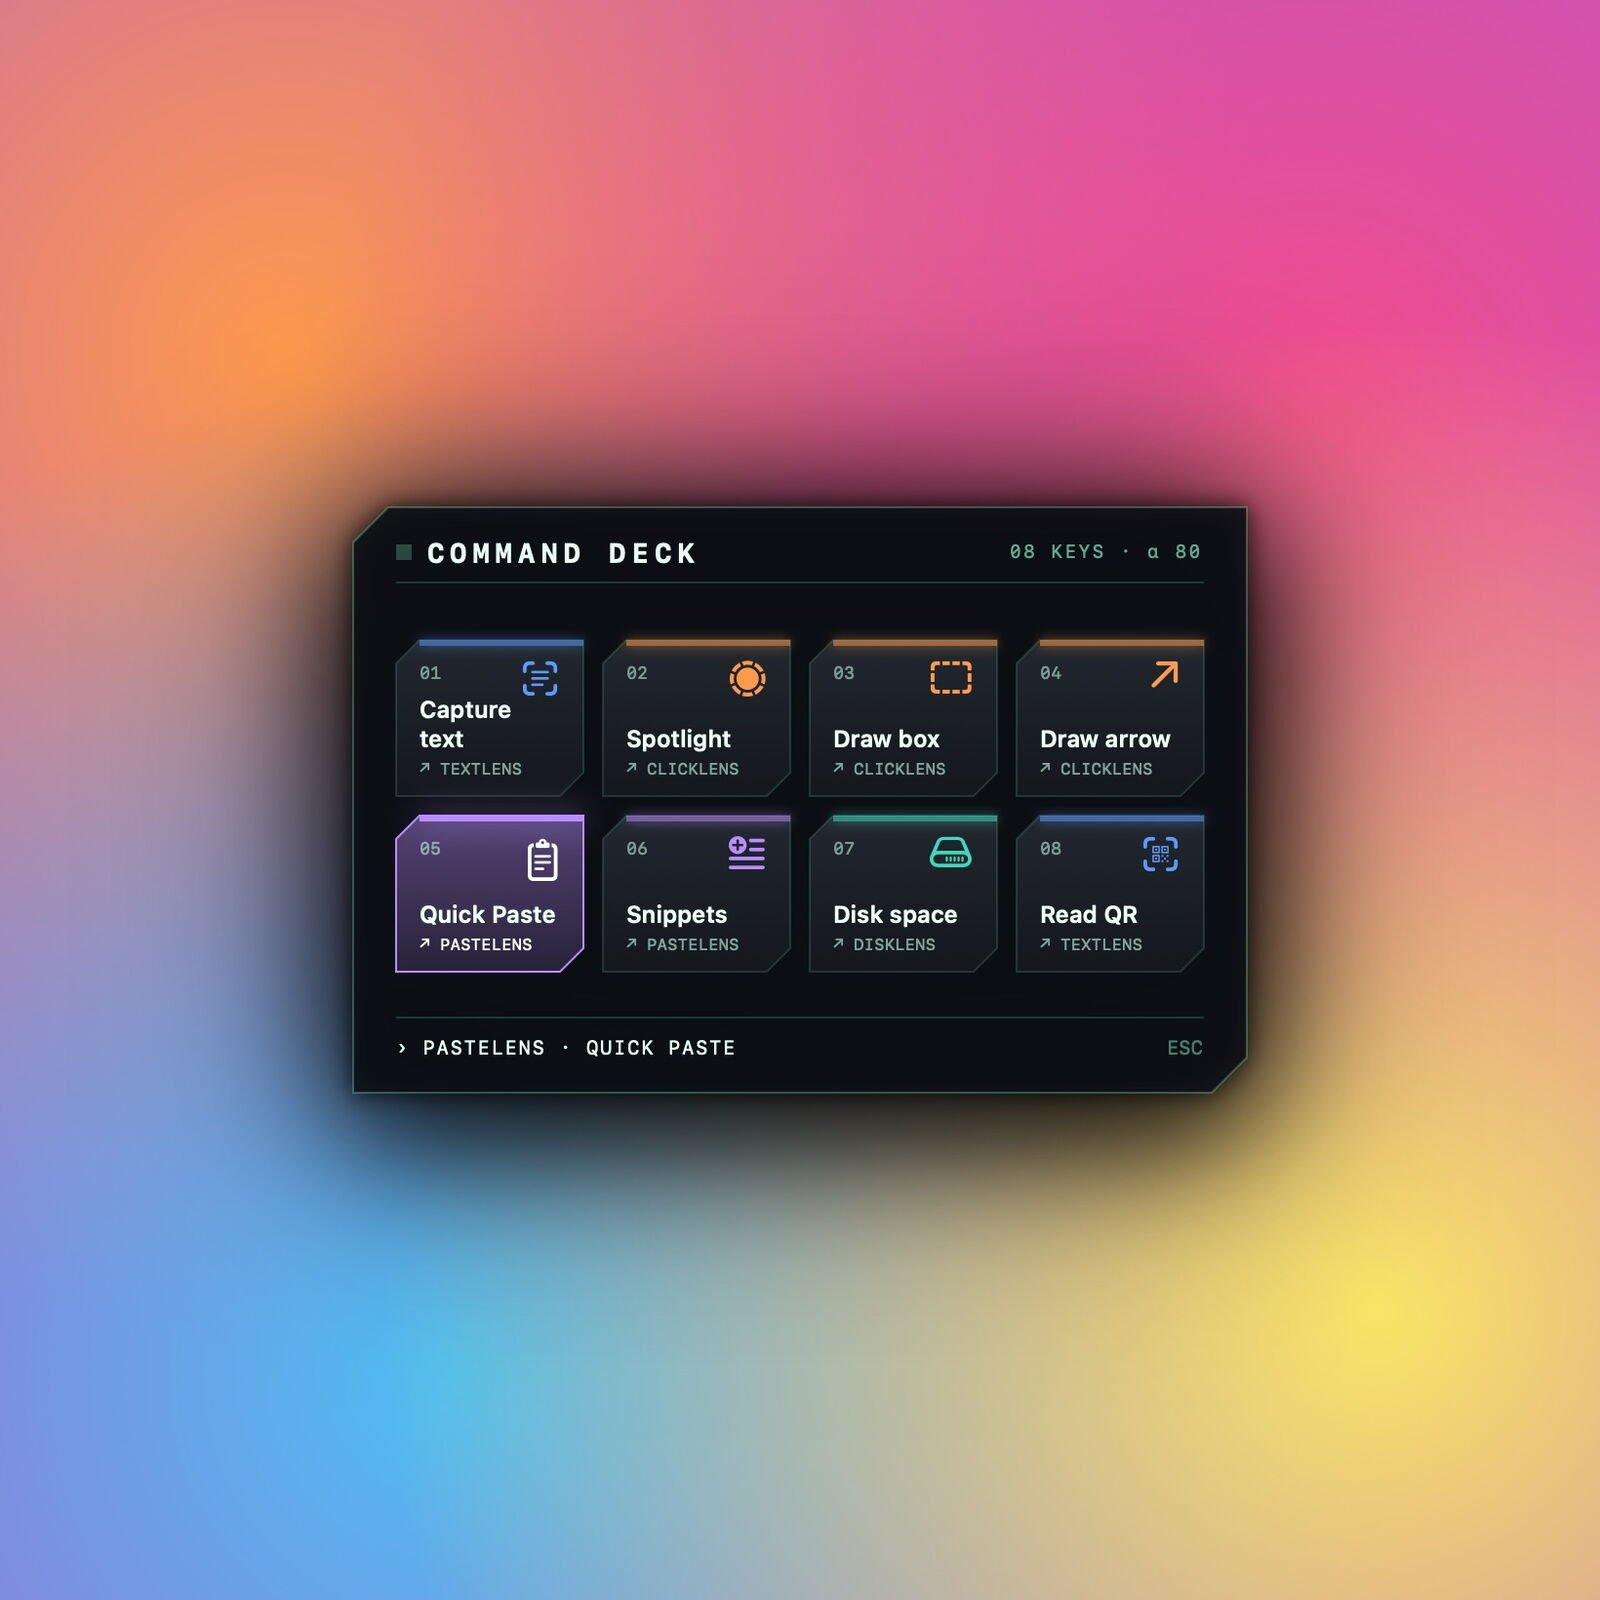
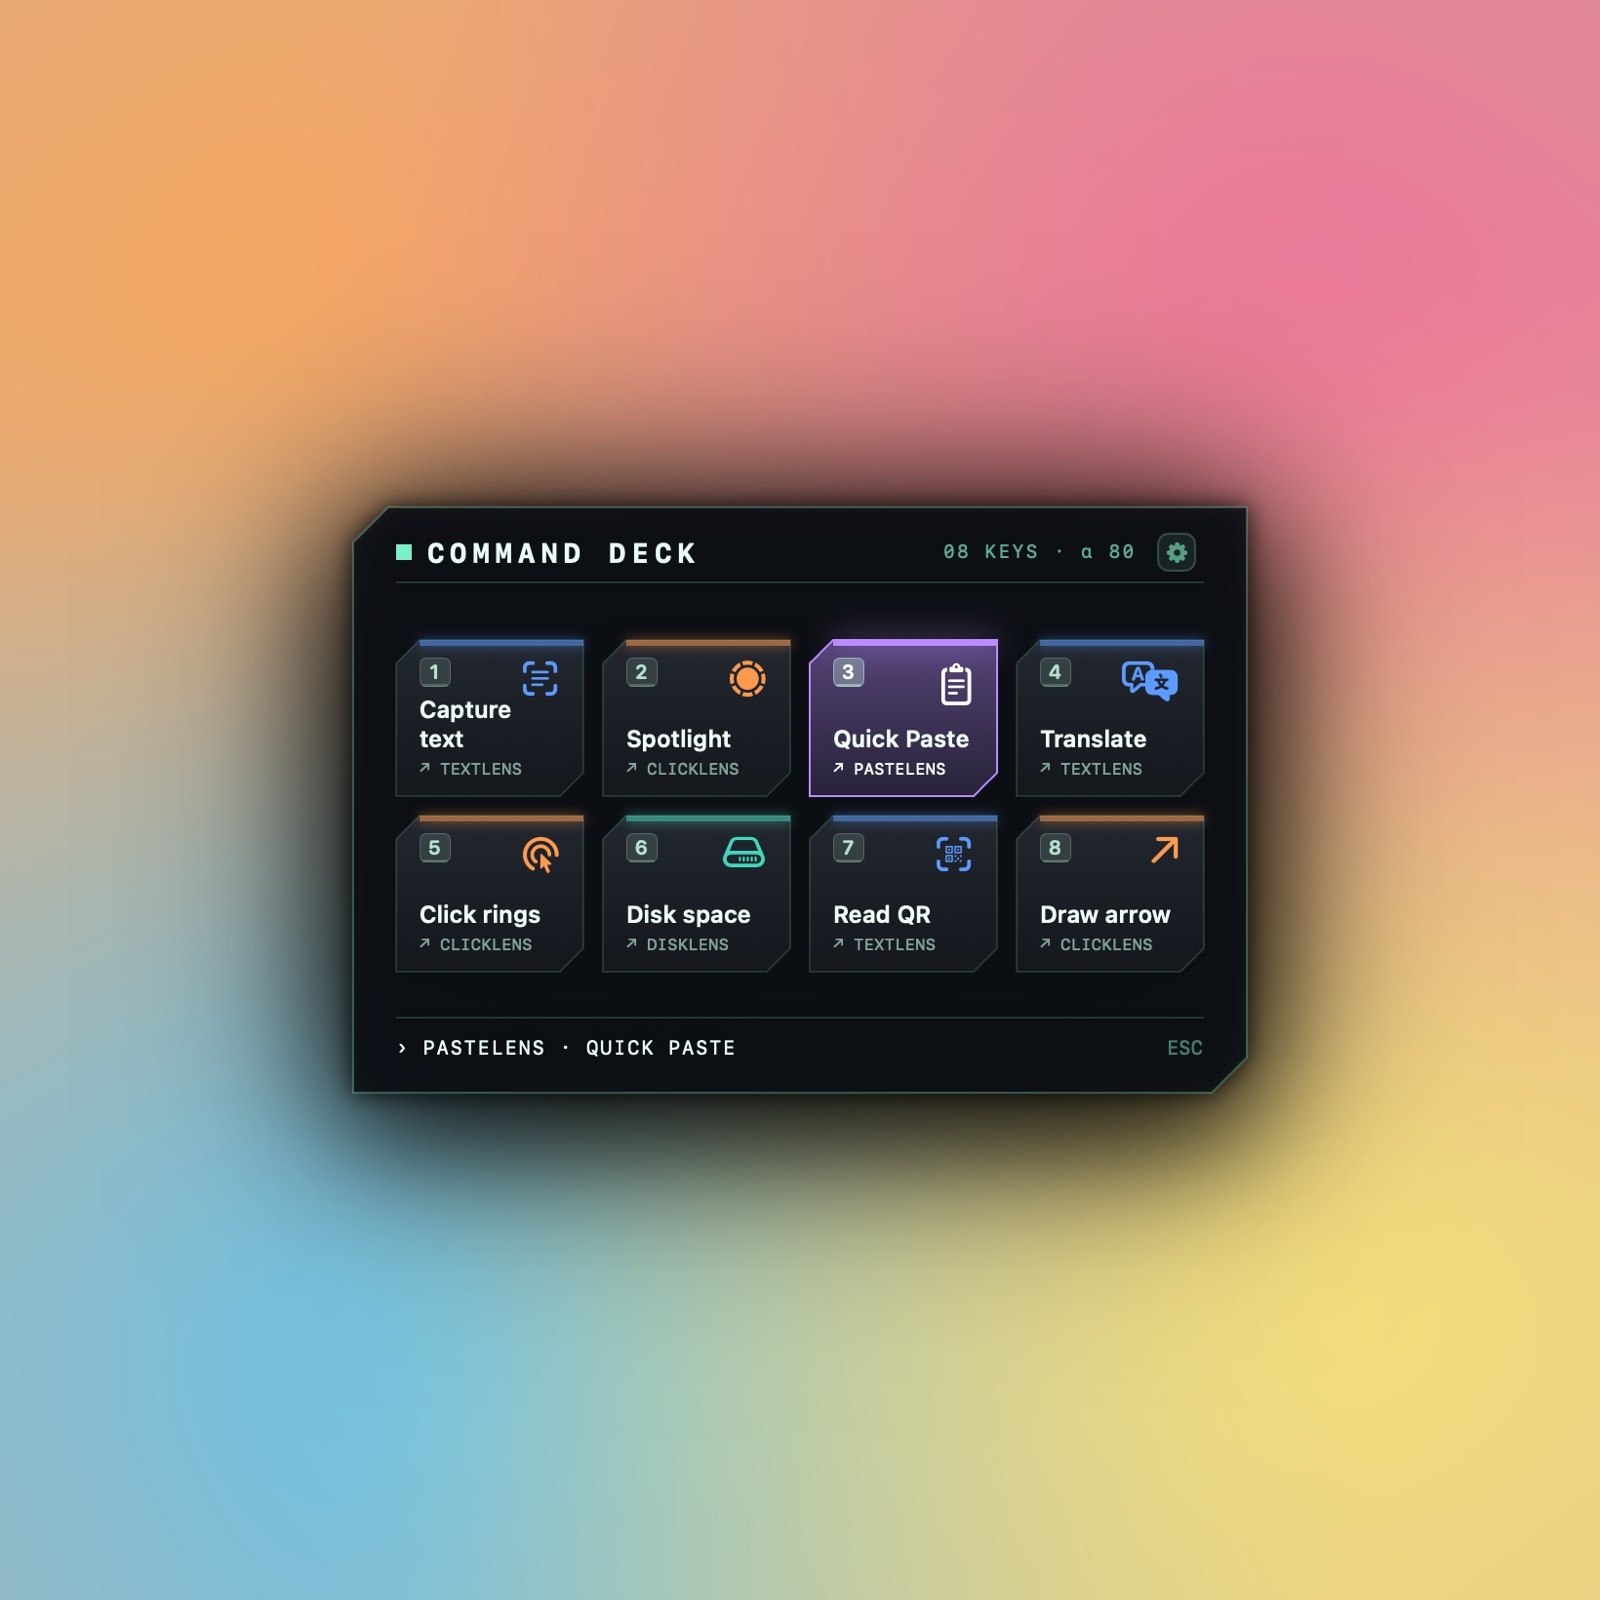
README: screenshots of 2.1.2, with the Liquid Glass look
Retaken from a scratch copy with the sample buttons: Halo, Stargate, Command Deck
and the button pad show the new center readout; Settings › Buttons shows the live
preview; Activity shows the redesigned window; the menu has no version line.

diff --git a/README.md b/README.md
@@ -5,7 +5,7 @@ the mouse in any app, and a ring of buttons opens around the pointer. Click a bu
 runs: capture text with TextLens, turn on ClickLens's spotlight, open PasteLens's Quick
 Paste, search your ExpansionLens snippets (1.0.0 or later), or press any key combination in any app.
 
-<p align="center"><img src="docs/images/toolhud-halo.jpg" width="480" alt="The ToolHUD Halo ring with eight buttons, Capture text lit at the top and its name and app shown in the center"></p>
+<p align="center"><img src="docs/images/toolhud-halo.jpg" width="480" alt="The ToolHUD Halo ring with eight numbered buttons, Capture text lit at the top and its name, app and key shown in the center"></p>
 
 ## Download
 
@@ -41,16 +41,20 @@ Requires macOS 26 or later.
 
 <table>
 <tr>
-<td width="50%"><img src="docs/images/toolhud-command-deck.jpg" alt="The Command Deck look, a panel of eight numbered keycaps such as Capture text, Spotlight and Quick Paste, each labeled with its app"><br><sub><b>Command Deck.</b> One of eleven looks: a panel of keycaps.</sub></td>
+<td width="50%"><img src="docs/images/toolhud-liquid-glass.jpg" alt="The Liquid Glass look, eight round glass buttons with their names in glass pills around a glass center showing Capture text and TextLens, over a colorful wallpaper"><br><sub><b>Liquid Glass.</b> System glass buttons that follow Light and Dark.</sub></td>
 <td width="50%"><img src="docs/images/toolhud-stargate.jpg" alt="The Stargate look, a ring of chevrons with Draw arrow locked and named in the center"><br><sub><b>Stargate.</b> The chevrons are the buttons; the gate opens when one locks.</sub></td>
 </tr>
 <tr>
+<td width="50%"><img src="docs/images/toolhud-command-deck.jpg" alt="The Command Deck look, a panel of eight numbered keycaps such as Capture text, Spotlight and Quick Paste, each labeled with its app"><br><sub><b>Command Deck.</b> One of eleven looks: a panel of keycaps.</sub></td>
 <td width="50%"><img src="docs/images/toolhud-pad-halo.jpg" alt="The Halo ring with a button pad beside it holding Capture again, Paste stack, Search snippets, Watch area and Snippets on keys A, S, D, F and G"><br><sub><b>Button pad.</b> More buttons beside the ring, run with A to K.</sub></td>
-<td width="50%"><img src="docs/images/toolhud-settings-buttons.jpg" alt="ToolHUD Settings on the Buttons pane, with the button list and the Capture text button set to a TextLens lens action"><br><sub><b>Buttons.</b> Pick an app feature or a keystroke for each button.</sub></td>
+</tr>
+<tr>
+<td width="50%"><img src="docs/images/toolhud-settings-buttons.webp" alt="ToolHUD Settings on the Buttons pane, with the button list, a live preview of the ring with Capture text lit, and the Capture text button set to a TextLens lens action"><br><sub><b>Buttons.</b> Click a button in the live preview to edit it.</sub></td>
+<td width="50%"><img src="docs/images/toolhud-settings-activity.webp" alt="ToolHUD Settings on the Activity pane, with a bar chart of actions per month over the last year and totals for three Macs"><br><sub><b>Activity.</b> How many actions you run, on this Mac or all your Macs.</sub></td>
 </tr>
 <tr>
 <td width="50%" align="center"><img src="docs/images/toolhud-menu-hub.jpg" width="420" alt="ToolHUD's menu bar menu listing other apps as submenus, with ClickLens's submenu open"><br><sub><b>Your apps' menus.</b> Other apps as submenus of ToolHUD's menu.</sub></td>
-<td width="50%"><img src="docs/images/toolhud-settings-activity.webp" alt="ToolHUD Settings on the Activity pane, with a bar chart of actions over 90 days and totals for three Macs"><br><sub><b>Activity.</b> How many actions you run, on this Mac or all your Macs.</sub></td>
+<td width="50%"></td>
 </tr>
 </table>
 
